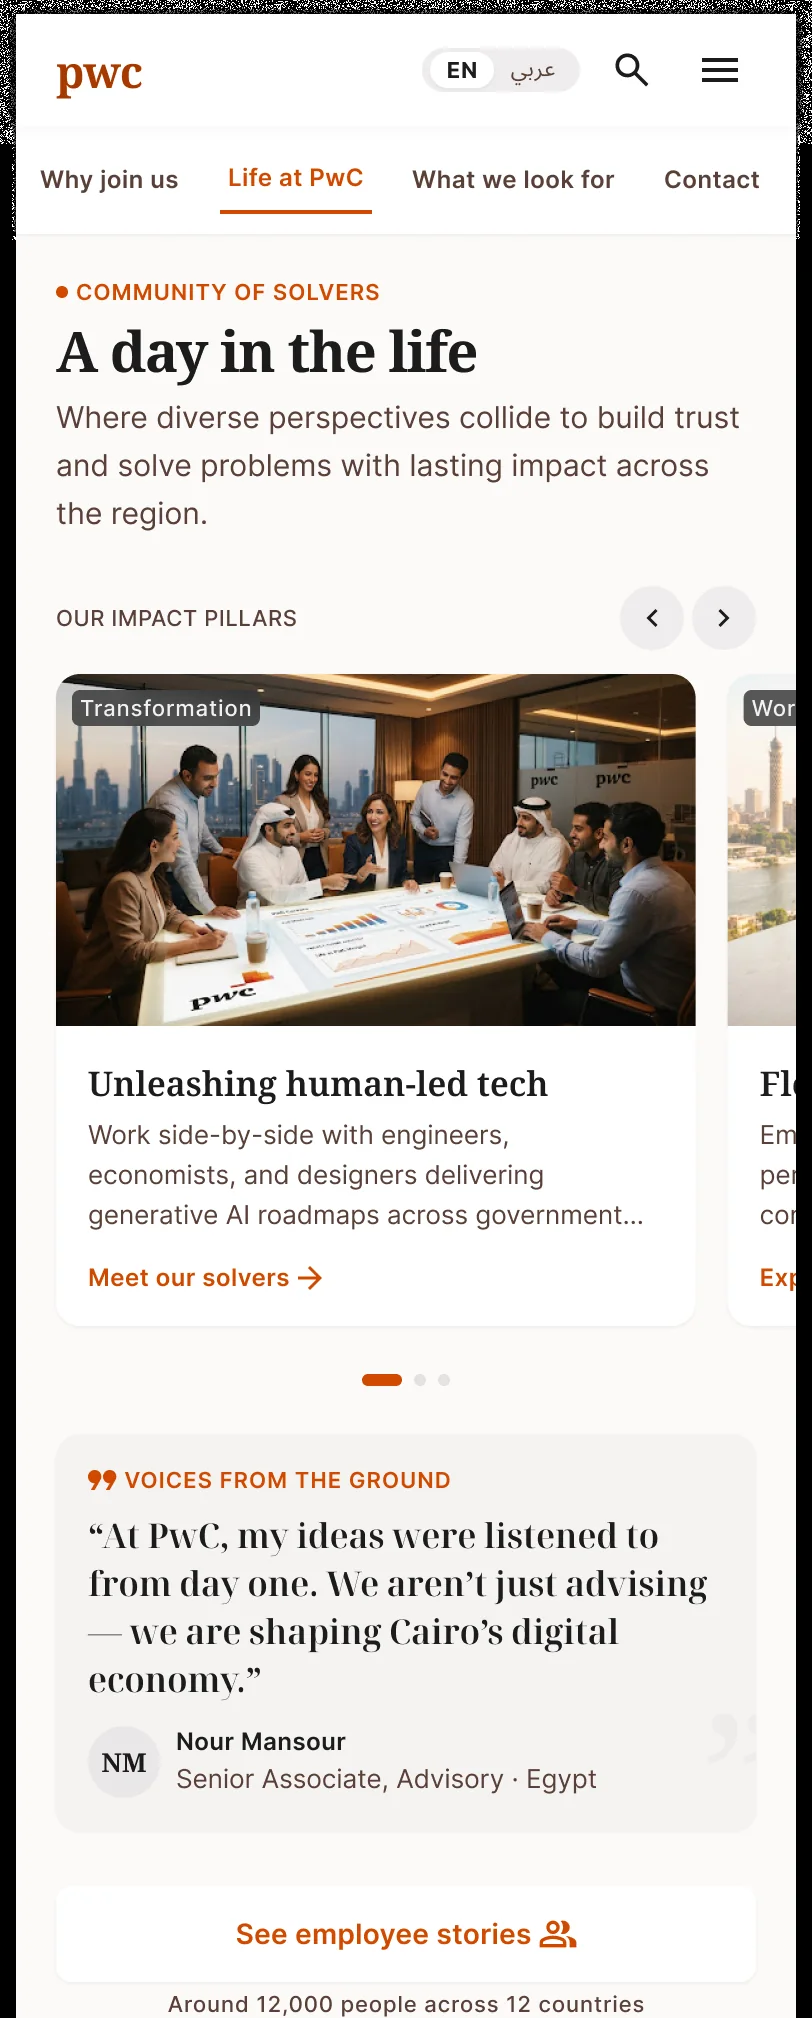
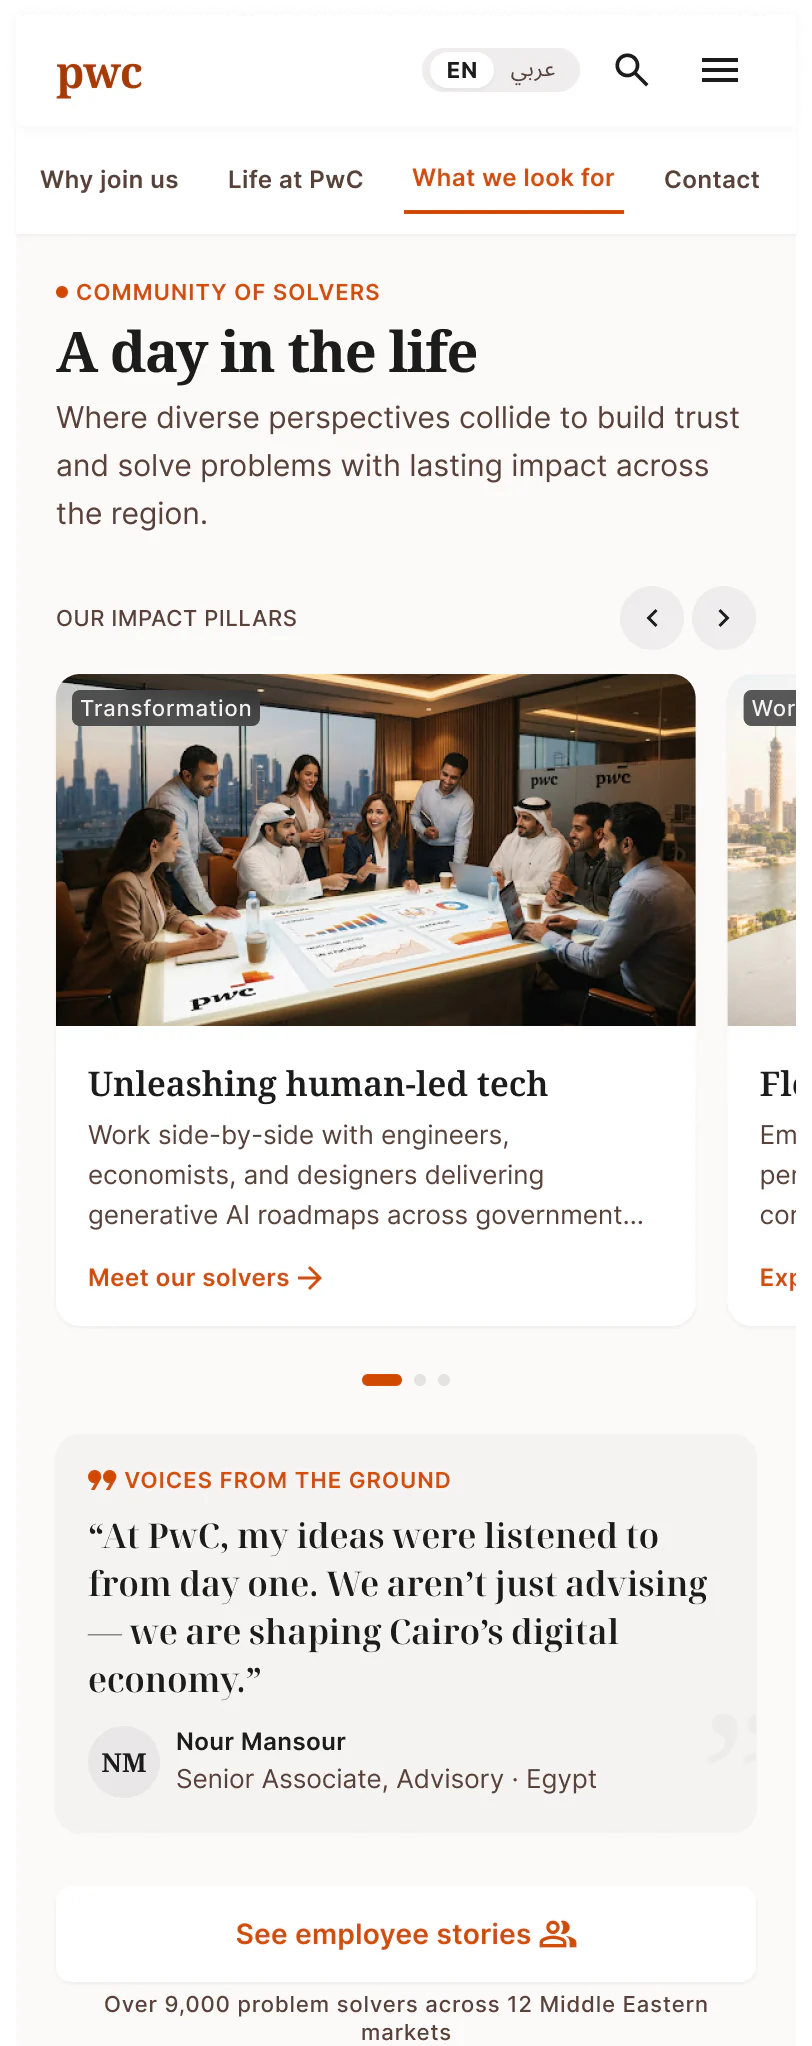
Use the clean export for the PwC careers life screen

diff --git a/src/data/projects.ts b/src/data/projects.ts
@@ -67,7 +67,7 @@ export const allProjects: Project[] = [
           { src: '/images/projects/pwc/offices-cards.webp', alt: 'Concept Egypt offices page with office cards, Directions and Call office buttons.', width: 812, height: 4060 },
           { src: '/images/projects/pwc/offices-bottom-sheet.webp', alt: 'Concept map with the Cairo head office details in a bottom sheet.', width: 872, height: 2205 },
           { src: '/images/projects/pwc/careers-why-join.webp', alt: 'Concept Careers page with job search and audience pills.', width: 812, height: 2769 },
-          { src: '/images/projects/pwc/careers-life.webp', alt: 'Concept Careers "Life at PwC" section.', width: 812, height: 2018 },
+          { src: '/images/projects/pwc/careers-life.webp', alt: 'Concept Careers "Life at PwC" section.', width: 812, height: 2046 },
         ],
       },
       {
